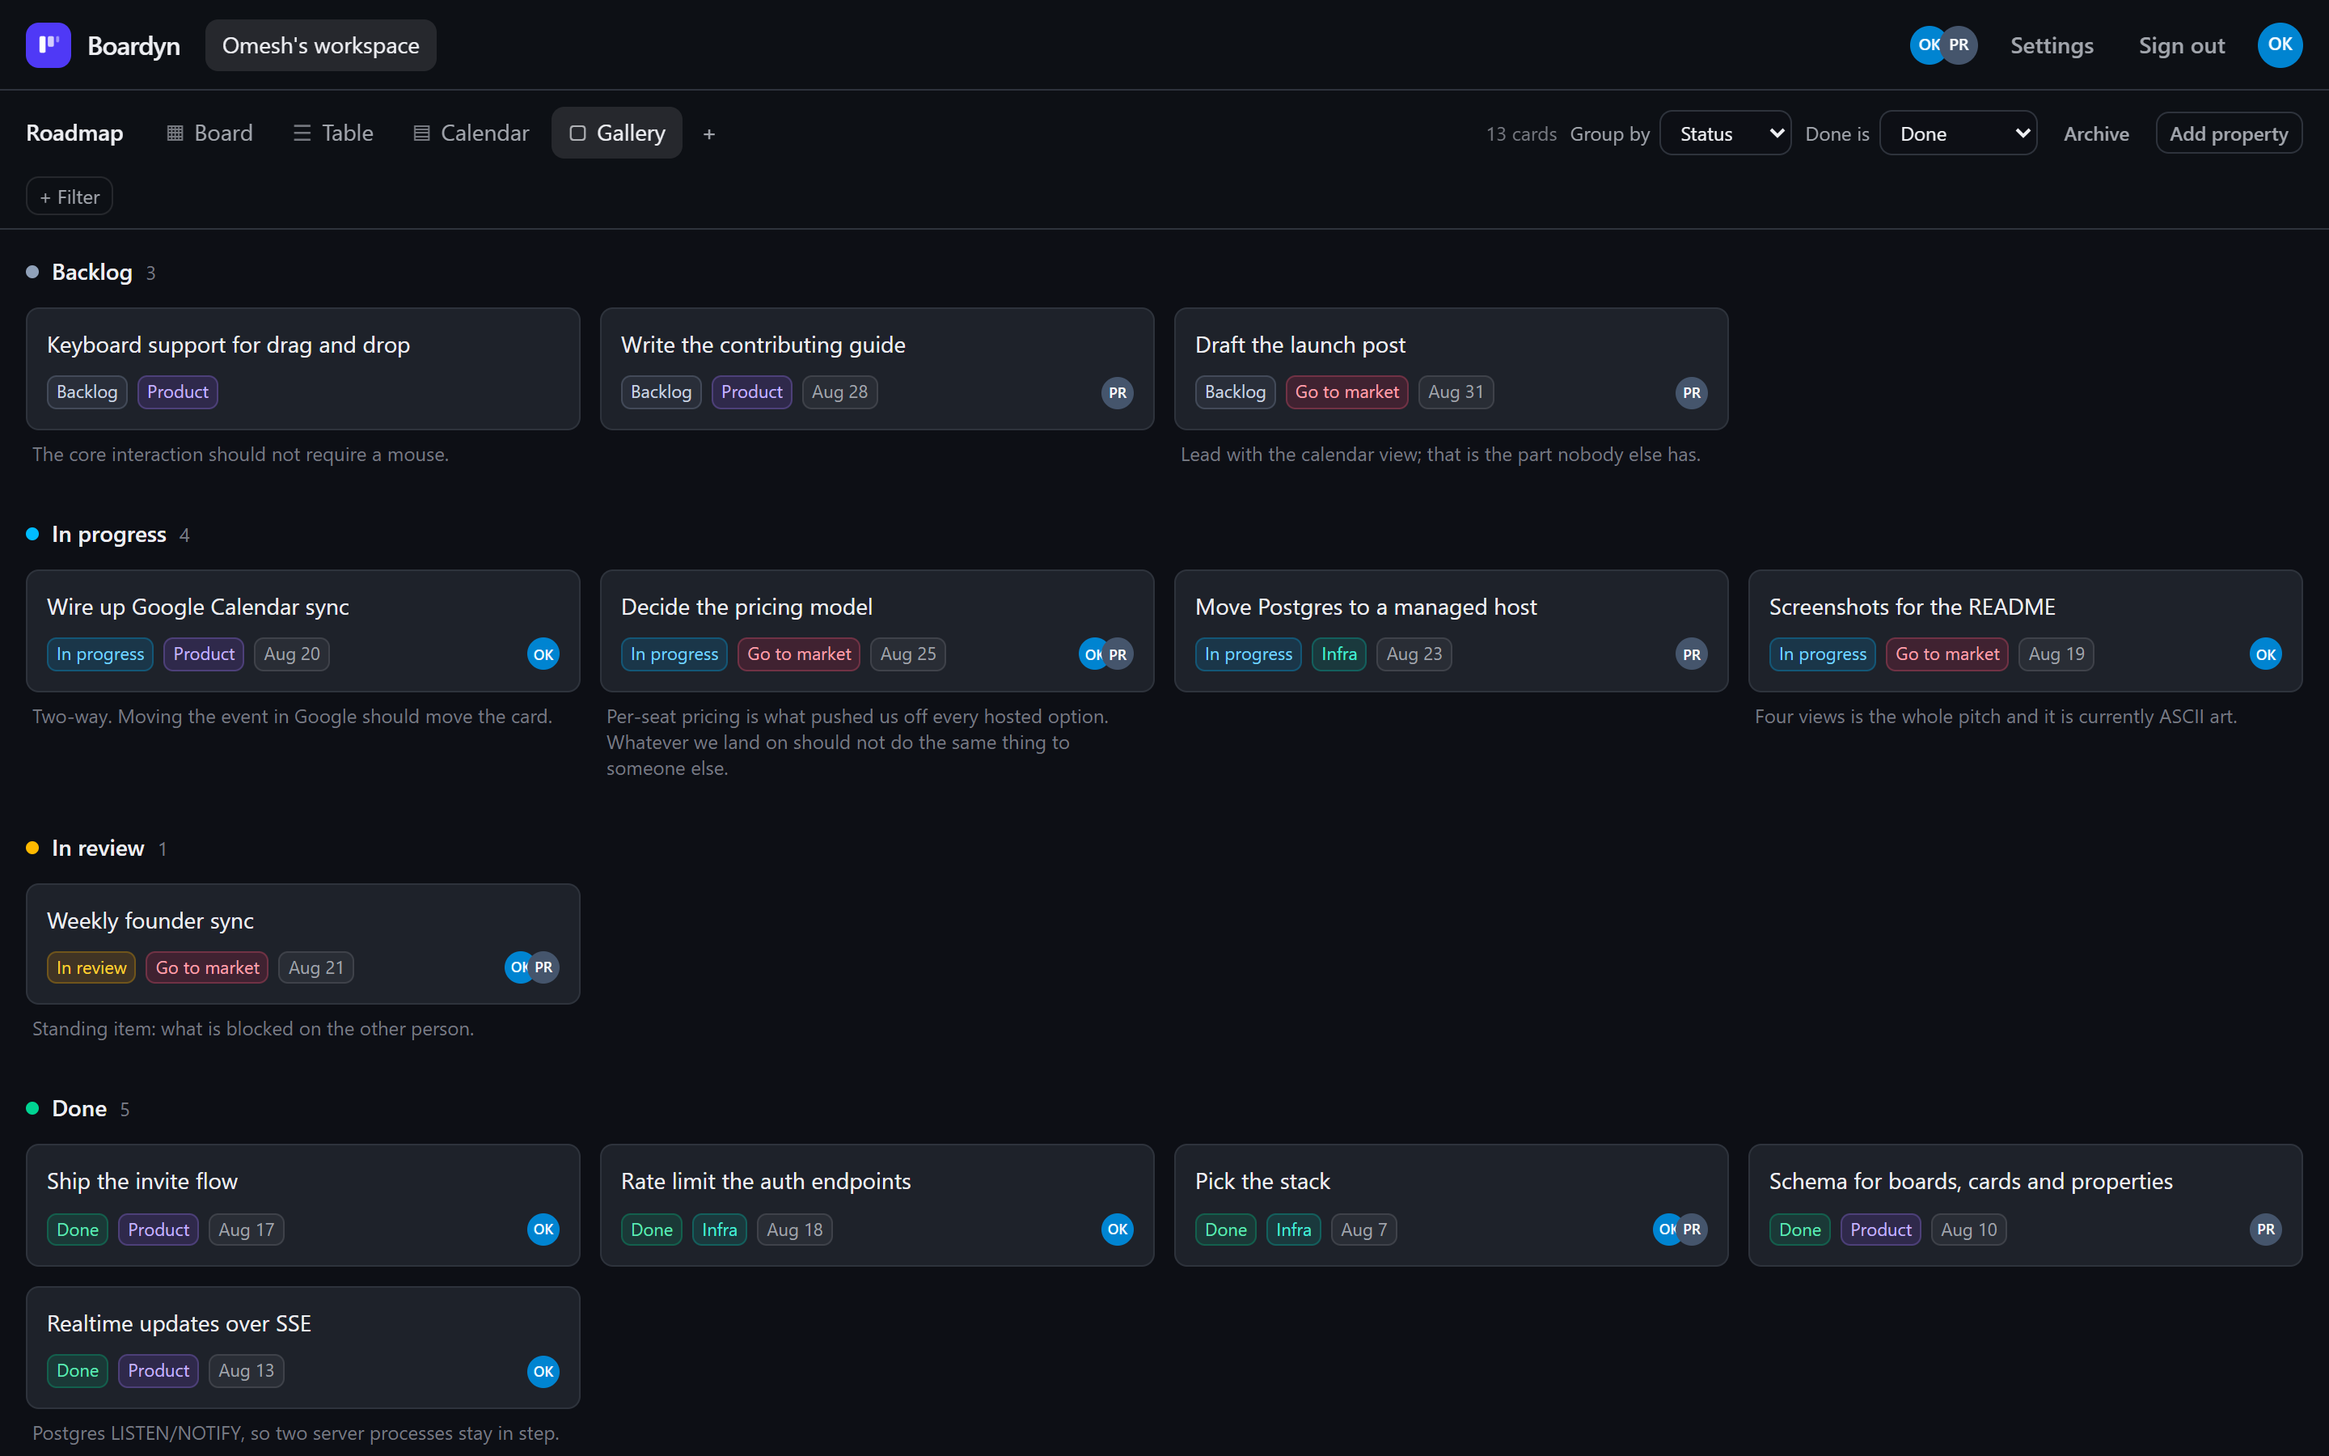
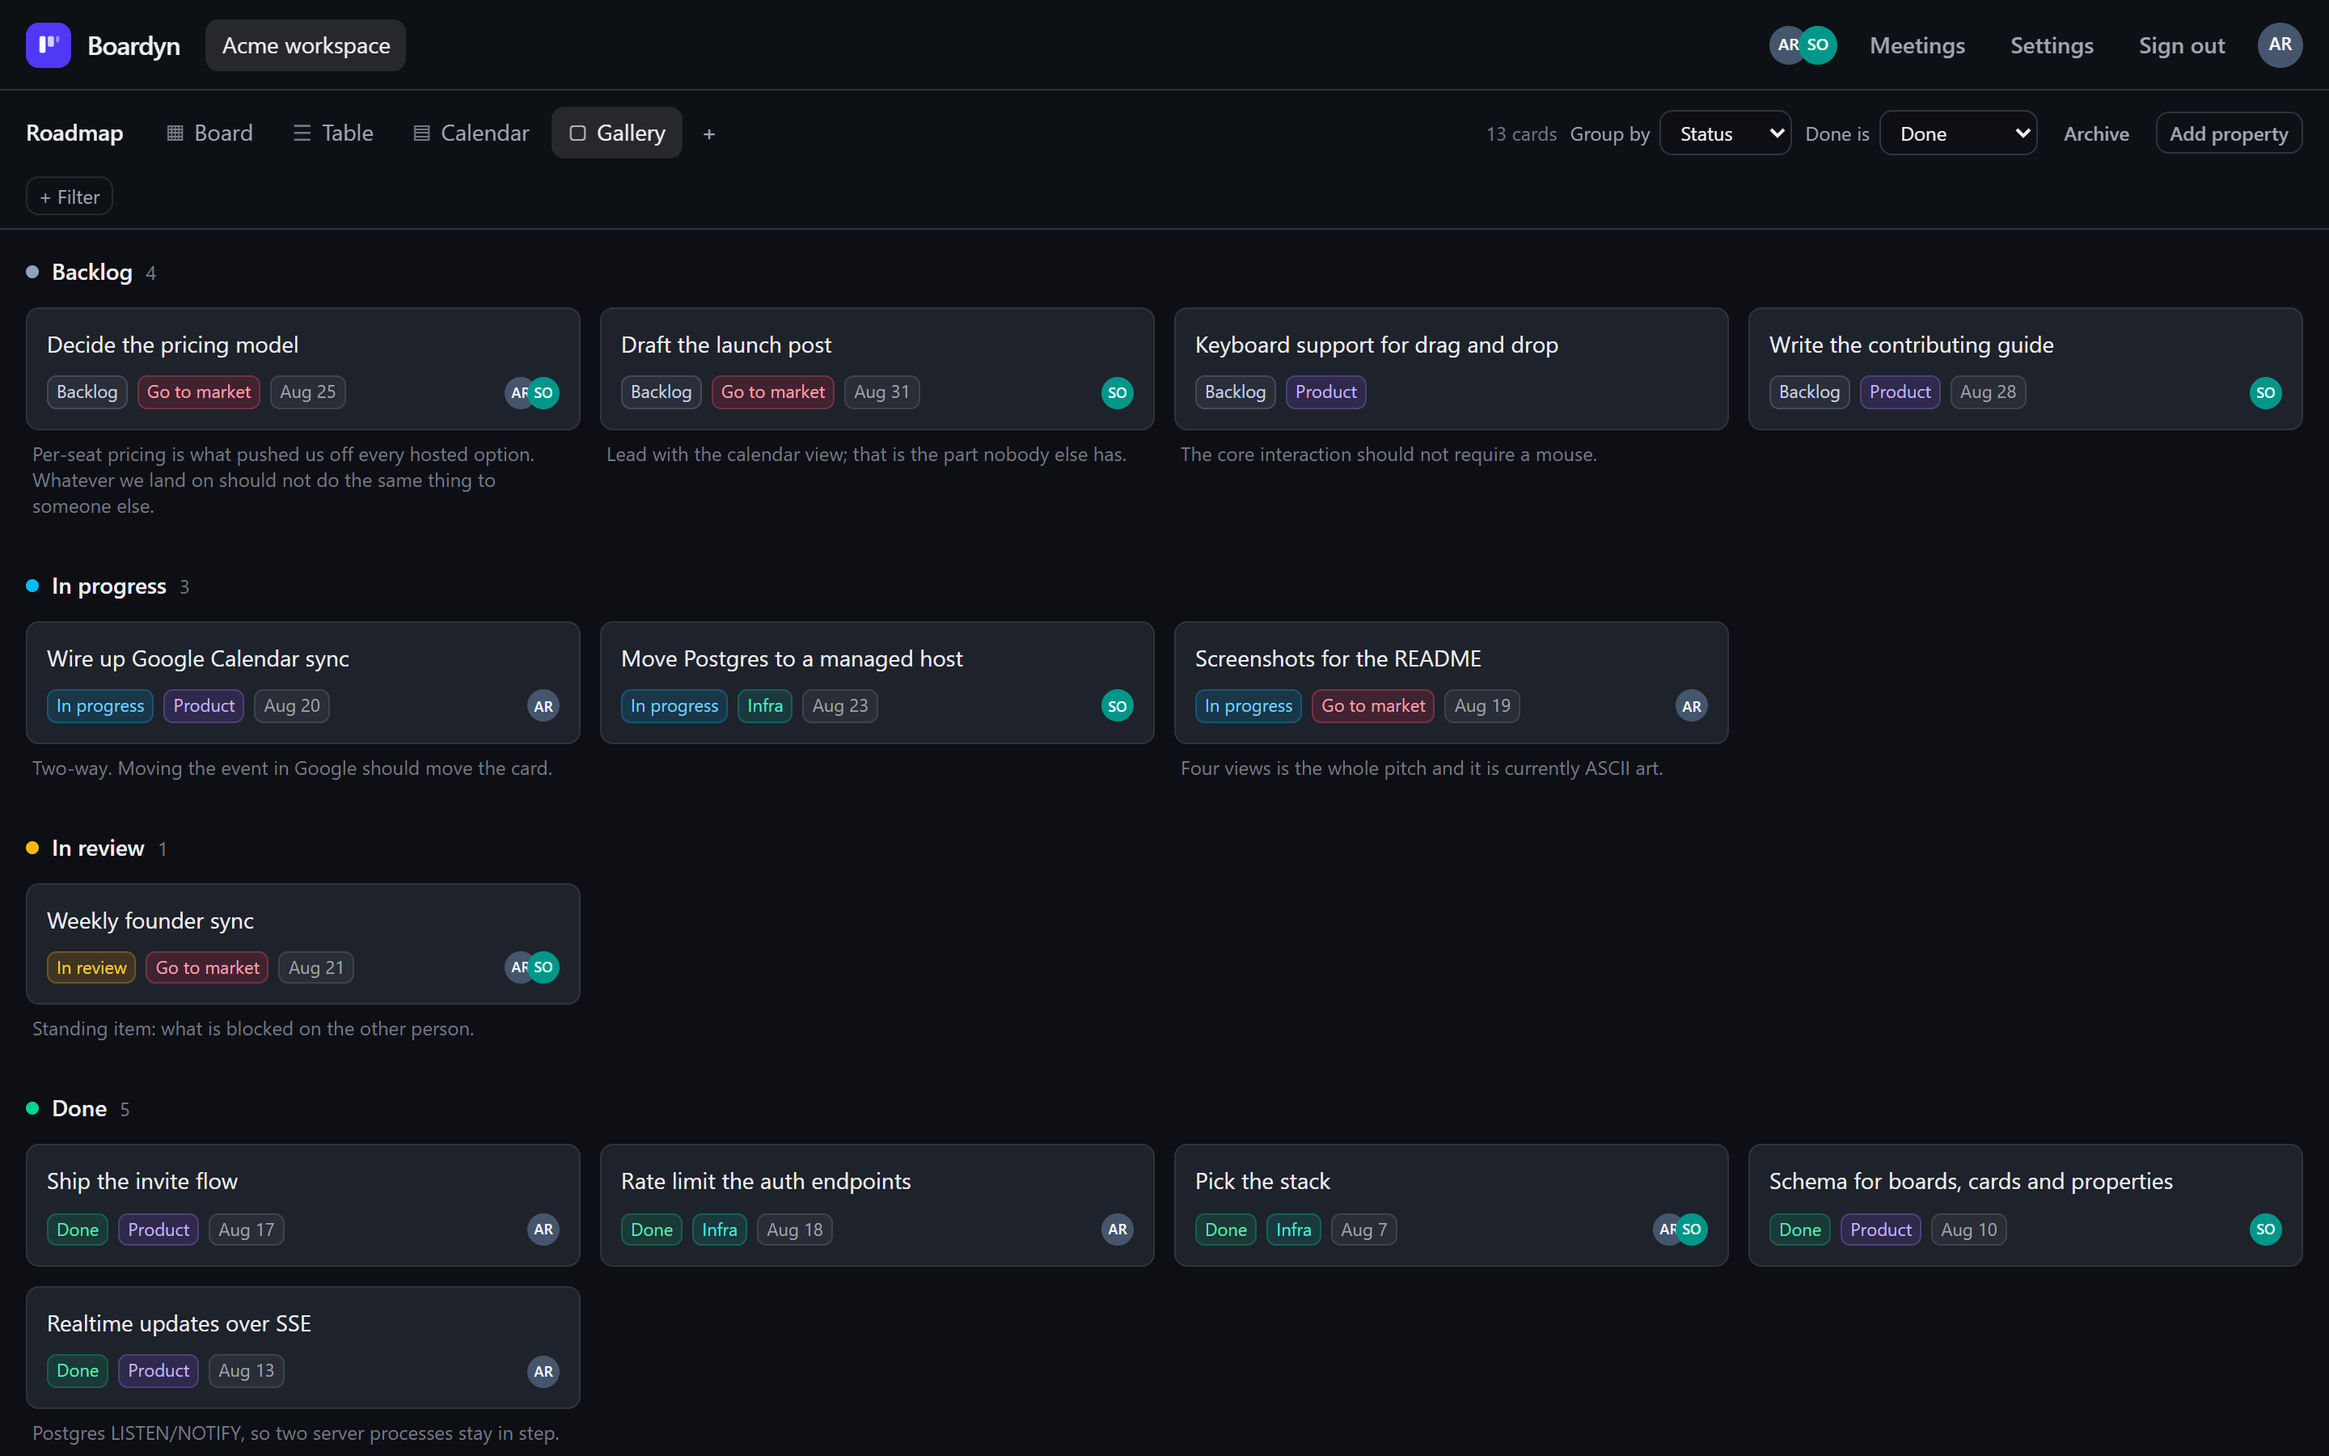
Use neutral names in fixtures and screenshots
Test fixtures, the meeting seed and the screenshots all carried my name and a
made-up colleague's. Nothing about the project needs them: a contributor
reading shouldForShareWithWorkspace should see Alex and Sam, not the author.
Authorship stays where it belongs, in the LICENSE and the repo URL.

Screenshots regenerated from a clean database with neutral accounts in an
"Acme workspace", so the images match what tools/dev-users.ts and the seeds
produce rather than a database I had been poking at for a day.

Two things the mechanical rename broke, both caught by the suite:

- An uppercase address survived the replace, so the case-insensitivity test
  compared SAM against a PRIYA that no longer existed anywhere.
- An expectation compared against a sorted array, and renaming moved one
  address ahead of another alphabetically.

Neither would have been obvious by reading the diff, which is the argument for
having had the tests before doing the rename.

tools/dev-users.ts creates the two accounts, so the screenshot and seed path is
reproducible instead of depending on whoever signed up first.

diff --git a/src/lib/granola/mapping.test.ts b/src/lib/granola/mapping.test.ts
@@ -12,25 +12,25 @@ import {
 const note = (overrides: Partial<GranolaNote> = {}): GranolaNote => ({
   id: "not_abcdefghijklmn",
   title: "Weekly founder sync",
-  owner: { name: "Omesh", email: "omesh@example.test" },
+  owner: { name: "Alex", email: "alex@example.test" },
   created_at: "2026-08-19T09:05:00.000Z",
   ...overrides,
 });
 
 describe("shouldShareWithWorkspace", () => {
-  const team = ["omesh@example.test", "priya@example.test"];
+  const team = ["alex@example.test", "sam@example.test"];
 
   it("shares a meeting two workspace members attended", () => {
     const attendees = [
-      { name: "Omesh", email: "omesh@example.test" },
-      { name: "Priya", email: "priya@example.test" },
+      { name: "Alex", email: "alex@example.test" },
+      { name: "Sam", email: "sam@example.test" },
     ];
     expect(shouldShareWithWorkspace(attendees, team)).toBe(true);
   });
 
   it("keeps a solo note private", () => {
     expect(
-      shouldShareWithWorkspace([{ name: "Omesh", email: "omesh@example.test" }], team),
+      shouldShareWithWorkspace([{ name: "Alex", email: "alex@example.test" }], team),
     ).toBe(false);
   });
 
@@ -39,7 +39,7 @@ describe("shouldShareWithWorkspace", () => {
     // conversation with another company. One member plus a stranger is not a
     // meeting the team had.
     const attendees = [
-      { name: "Omesh", email: "omesh@example.test" },
+      { name: "Alex", email: "alex@example.test" },
       { name: "A candidate", email: "candidate@elsewhere.test" },
     ];
     expect(shouldShareWithWorkspace(attendees, team)).toBe(false);
@@ -47,8 +47,8 @@ describe("shouldShareWithWorkspace", () => {
 
   it("shares when the team plus outsiders were present", () => {
     const attendees = [
-      { name: "Omesh", email: "omesh@example.test" },
-      { name: "Priya", email: "priya@example.test" },
+      { name: "Alex", email: "alex@example.test" },
+      { name: "Sam", email: "sam@example.test" },
       { name: "An investor", email: "investor@elsewhere.test" },
     ];
     expect(shouldShareWithWorkspace(attendees, team)).toBe(true);
@@ -56,8 +56,8 @@ describe("shouldShareWithWorkspace", () => {
 
   it("ignores case in email addresses", () => {
     const attendees = [
-      { name: "Omesh", email: "Omesh@Example.Test" },
-      { name: "Priya", email: "PRIYA@example.test" },
+      { name: "Alex", email: "Alex@Example.Test" },
+      { name: "Sam", email: "SAM@example.test" },
     ];
     expect(shouldShareWithWorkspace(attendees, team)).toBe(true);
   });
@@ -66,28 +66,28 @@ describe("shouldShareWithWorkspace", () => {
     // Duplicated across the attendee list and the calendar invitees, one
     // person must not look like two and share a private note.
     const attendees = [
-      { name: "Omesh", email: "omesh@example.test" },
-      { name: "Omesh K", email: "omesh@example.test" },
+      { name: "Alex", email: "alex@example.test" },
+      { name: "Alex K", email: "alex@example.test" },
     ];
     expect(shouldShareWithWorkspace(attendees, team)).toBe(false);
   });
 
   it("does not match on names, only addresses", () => {
-    // A name is not an identity. Two people called Omesh must not be able to
+    // A name is not an identity. Two people called Alex must not be able to
     // open each other's notes.
     const attendees = [
-      { name: "Omesh", email: null },
-      { name: "Priya", email: null },
+      { name: "Alex", email: null },
+      { name: "Sam", email: null },
     ];
     expect(shouldShareWithWorkspace(attendees, team)).toBe(false);
   });
 
   it("keeps everything private in a workspace of one", () => {
     const attendees = [
-      { name: "Omesh", email: "omesh@example.test" },
+      { name: "Alex", email: "alex@example.test" },
       { name: "Someone", email: "someone@elsewhere.test" },
     ];
-    expect(shouldShareWithWorkspace(attendees, ["omesh@example.test"])).toBe(false);
+    expect(shouldShareWithWorkspace(attendees, ["alex@example.test"])).toBe(false);
   });
 });
 
@@ -95,32 +95,32 @@ describe("normaliseAttendees", () => {
   it("merges the attendee list, the calendar invitees and the owner", () => {
     const people = normaliseAttendees(
       note({
-        attendees: [{ name: "Priya", email: "priya@example.test" }],
+        attendees: [{ name: "Sam", email: "sam@example.test" }],
         calendar_event: {
           invitees: [{ name: "Investor", email: "investor@elsewhere.test" }],
-          organiser: { name: "Omesh", email: "omesh@example.test" },
+          organiser: { name: "Alex", email: "alex@example.test" },
         },
       }),
     );
     expect(people.map((p) => p.email).sort()).toEqual([
+      "alex@example.test",
       "investor@elsewhere.test",
-      "omesh@example.test",
-      "priya@example.test",
+      "sam@example.test",
     ]);
   });
 
   it("dedupes one person appearing in several places", () => {
     const people = normaliseAttendees(
       note({
-        attendees: [{ name: null, email: "omesh@example.test" }],
+        attendees: [{ name: null, email: "alex@example.test" }],
         calendar_event: {
-          organiser: { name: "Omesh Kandregula", email: "omesh@example.test" },
+          organiser: { name: "Alex Rivera", email: "alex@example.test" },
         },
       }),
     );
     expect(people).toHaveLength(1);
     // The better name wins over the empty one.
-    expect(people[0].name).toBe("Omesh Kandregula");
+    expect(people[0].name).toBe("Alex Rivera");
   });
 
   it("accepts the American spelling of organiser", () => {
@@ -197,10 +197,10 @@ describe("flattenTranscript", () => {
   it("labels lines with the speaker", () => {
     expect(
       flattenTranscript([
-        { speaker: { name: "Omesh" }, text: "Shall we ship it" },
-        { speaker: { name: "Priya" }, text: "After the tests" },
+        { speaker: { name: "Alex" }, text: "Shall we ship it" },
+        { speaker: { name: "Sam" }, text: "After the tests" },
       ]),
-    ).toBe("Omesh: Shall we ship it\nPriya: After the tests");
+    ).toBe("Alex: Shall we ship it\nSam: After the tests");
   });
 
   it("keeps unattributed lines", () => {

diff --git a/src/lib/granola/action-items.test.ts b/src/lib/granola/action-items.test.ts
@@ -11,12 +11,12 @@ describe("extractActionItems", () => {
 We talked about pricing and the launch.
 
 ## Action items
-- Omesh to draft the pricing page
-- Priya to email the design agency
+- Alex to draft the pricing page
+- Sam to email the design agency
 `;
     expect(texts(summary)).toEqual([
-      "Omesh to draft the pricing page",
-      "Priya to email the design agency",
+      "Alex to draft the pricing page",
+      "Sam to email the design agency",
     ]);
   });
 
@@ -42,9 +42,9 @@ We talked about pricing and the launch.
     // Granola often files actions per person underneath the section.
     const summary = `
 ## Action items
-### Omesh
+### Alex
 - Draft the pricing page
-### Priya
+### Sam
 - Email the agency
 `;
     expect(texts(summary)).toEqual([
@@ -70,11 +70,11 @@ We talked about pricing and the launch.
   it("picks up commitments phrased as such outside any heading", () => {
     const summary = `
 ## Discussion
-- Omesh will send the investor update on Friday
+- Alex will send the investor update on Friday
 - Pricing felt high to both of us
 `;
     expect(texts(summary)).toEqual([
-      "Omesh will send the investor update on Friday",
+      "Alex will send the investor update on Friday",
     ]);
   });
 
@@ -94,9 +94,9 @@ We talked about pricing and the launch.
   it("strips markdown so a card title is not full of syntax", () => {
     const summary = `
 ## Action items
-- **Omesh** to review the [pricing doc](https://example.com/doc)
+- **Alex** to review the [pricing doc](https://example.com/doc)
 `;
-    expect(texts(summary)).toEqual(["Omesh to review the pricing doc"]);
+    expect(texts(summary)).toEqual(["Alex to review the pricing doc"]);
   });
 
   it("does not repeat an item that appears twice", () => {
@@ -149,7 +149,7 @@ We talked about pricing and the launch.
 
   it("records where each item came from", () => {
     const items = extractActionItems(
-      "## Action items\n- Send the deck\n\n## Notes\n- [ ] Book the venue\n- Priya will call the bank",
+      "## Action items\n- Send the deck\n\n## Notes\n- [ ] Book the venue\n- Sam will call the bank",
     );
     expect(items.map((i) => i.source)).toEqual(["heading", "checkbox", "phrase"]);
   });

diff --git a/tools/dev-users.ts b/tools/dev-users.ts
@@ -1,0 +1,57 @@
+import "dotenv/config";
+import { db, sql } from "@/db";
+import { users, workspaceMembers, workspaces } from "@/db/schema";
+import { colorFor } from "@/lib/constants";
+import { ids, slugify } from "@/lib/ids";
+import { hashPassword } from "@/lib/password";
+
+/**
+ * Creates a couple of accounts in a development database, so the seeds and the
+ * screenshot tooling have something to attach to without anybody signing up by
+ * hand. Development only.
+ */
+const PEOPLE = [
+  { name: "Alex Rivera", email: "alex@example.test" },
+  { name: "Sam Okafor", email: "sam@example.test" },
+];
+
+async function main() {
+  const password = await hashPassword("development-password");
+  const workspaceId = ids.workspace();
+  let first = true;
+
+  for (const person of PEOPLE) {
+    const userId = ids.user();
+    await db.insert(users).values({
+      id: userId,
+      email: person.email,
+      name: person.name,
+      passwordHash: password,
+      avatarColor: colorFor(person.email),
+    });
+
+    if (first) {
+      await db.insert(workspaces).values({
+        id: workspaceId,
+        name: "Acme workspace",
+        slug: slugify("acme-workspace"),
+        createdBy: userId,
+      });
+    }
+
+    await db.insert(workspaceMembers).values({
+      workspaceId,
+      userId,
+      role: first ? "owner" : "member",
+    });
+    first = false;
+    console.log(`${person.name} <${person.email}>`);
+  }
+
+  await sql.end();
+}
+
+main().catch((error) => {
+  console.error(error);
+  process.exit(1);
+});

diff --git a/tools/seed-granola.ts b/tools/seed-granola.ts
@@ -25,8 +25,8 @@ const SUMMARY_A = `## Summary
 Went through pricing and what to do before launch.
 
 ## Action items
-- Omesh to draft the pricing page copy
-- Priya to email the design agency about the launch assets
+- Alex to draft the pricing page copy
+- Sam to email the design agency about the launch assets
 - Both of us to review the onboarding flow before Friday
 
 ## Notes
@@ -87,7 +87,7 @@ async function main() {
       hoursAgo: 26,
       attendees: [
         { name: owner.name, email: owner.email },
-        ...(teammate ? [{ name: "Priya Raman", email: teammate }] : []),
+        ...(teammate ? [{ name: "Sam Okafor", email: teammate }] : []),
       ],
       shared: Boolean(teammate),
     },
@@ -97,7 +97,7 @@ async function main() {
       hoursAgo: 50,
       attendees: [
         { name: owner.name, email: owner.email },
-        ...(teammate ? [{ name: "Priya Raman", email: teammate }] : []),
+        ...(teammate ? [{ name: "Sam Okafor", email: teammate }] : []),
       ],
       shared: Boolean(teammate),
     },
@@ -129,7 +129,7 @@ async function main() {
       endedAt: new Date(startedAt.getTime() + 30 * 60_000),
       attendees: sample.attendees,
       summary: sample.summary,
-      transcript: "Omesh: Shall we start\nPriya: Go ahead",
+      transcript: "Alex: Shall we start\nSam: Go ahead",
       sharedWithWorkspace: sample.shared,
       granolaUpdatedAt: startedAt,
     });

diff --git a/src/components/board/view-model.test.ts b/src/components/board/view-model.test.ts
@@ -28,8 +28,8 @@ const STATUS: BoardProperty = {
 const MEMBERS: Member[] = [
   {
     id: "usr_1",
-    name: "Omesh Kandregula",
-    email: "omesh@example.test",
+    name: "Alex Rivera",
+    email: "alex@example.test",
     avatarColor: "indigo",
     role: "owner",
     hasCalendar: false,
@@ -236,7 +236,7 @@ describe("renderValue", () => {
 
   it("renders a person by name", () => {
     const person: BoardProperty = { ...STATUS, id: "prp_owner", type: "person", options: [] };
-    expect(renderValue(person, ["usr_1"], MEMBERS)).toBe("Omesh Kandregula");
+    expect(renderValue(person, ["usr_1"], MEMBERS)).toBe("Alex Rivera");
   });
 
   it("renders an empty value as an empty string", () => {

diff --git a/src/components/board/filter-options.test.ts b/src/components/board/filter-options.test.ts
@@ -25,7 +25,7 @@ const STATUS: BoardProperty = {
 const MEMBERS: Member[] = [
   {
     id: "usr_1",
-    name: "Omesh",
+    name: "Alex",
     email: "o@example.test",
     avatarColor: "indigo",
     role: "owner",
@@ -53,7 +53,7 @@ describe("filterTargets", () => {
 
   it("offers members as the assignee values", () => {
     const assignee = filterTargets([], MEMBERS).find((t) => t.id === "assignee");
-    expect(assignee?.options).toEqual([{ id: "usr_1", name: "Omesh" }]);
+    expect(assignee?.options).toEqual([{ id: "usr_1", name: "Alex" }]);
   });
 });
 
